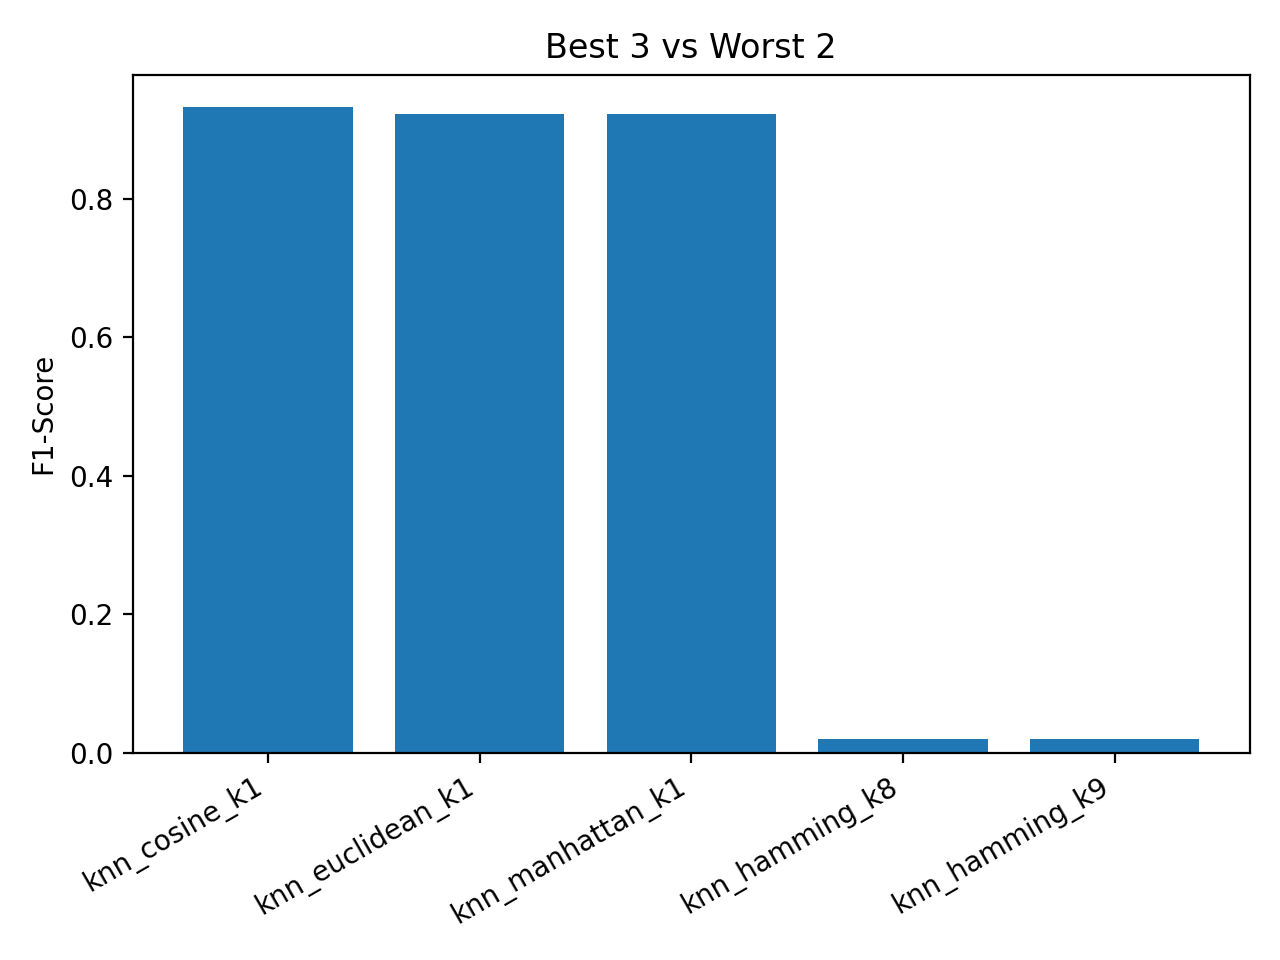
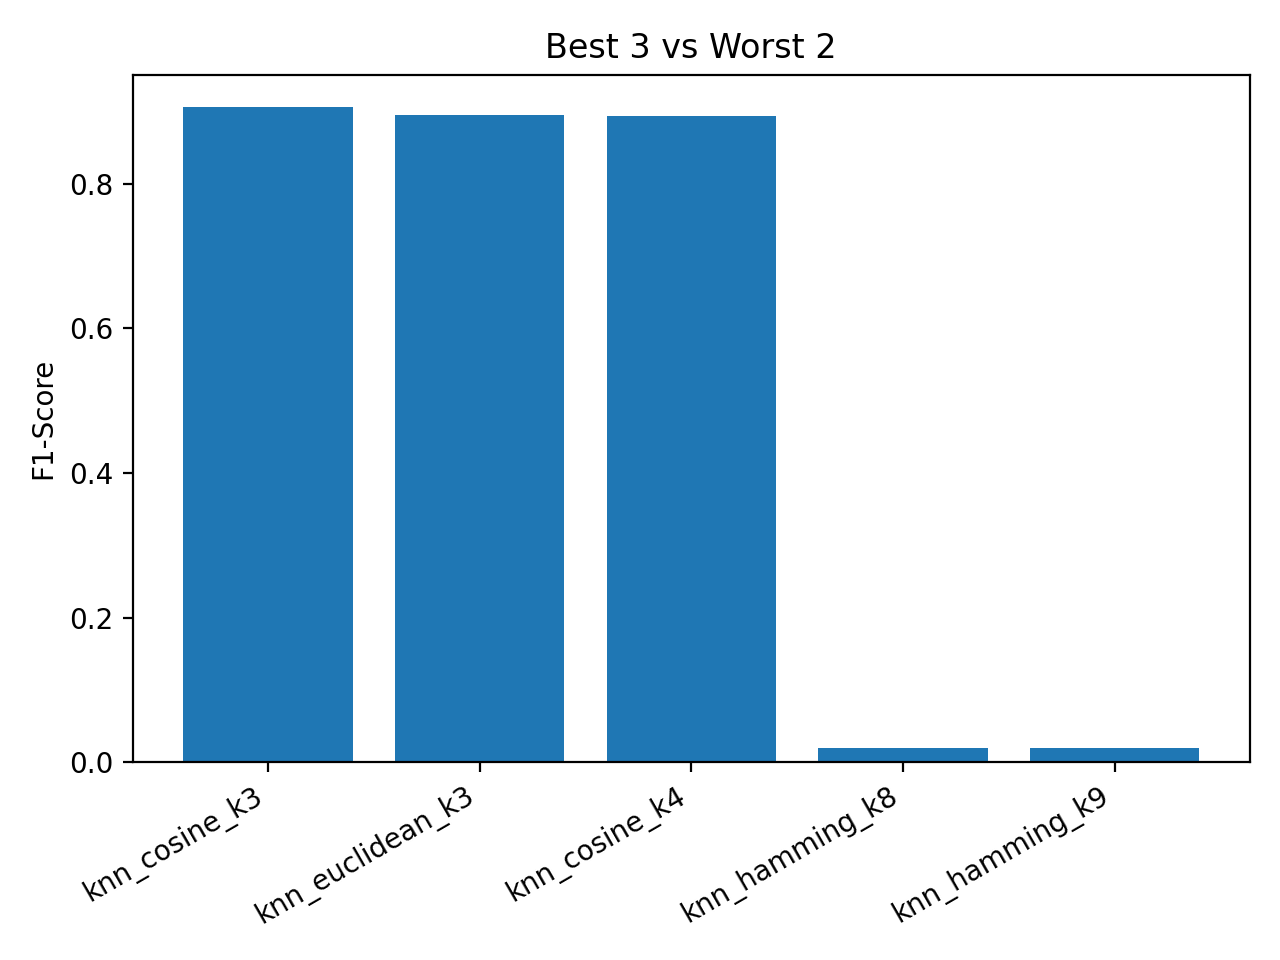
updating knn model

diff --git a/src/training/models.py b/src/training/models.py
@@ -7,7 +7,7 @@ def build_candidates(seed=42):
     models = {}
     # KNN sweeps
     for metric in ["euclidean","manhattan","chebyshev","cosine","hamming"]:
-        for k in range(1,10):
+        for k in range(3,10):
             name = f"knn_{metric}_k{k}"
             models[name] = KNeighborsClassifier(n_neighbors=k, metric=metric)
     # Tree / LR / RF

diff --git a/README.md b/README.md
@@ -189,26 +189,27 @@ After uploading an audio file, the results page displays the predicted sound cat
 
 ## 4. Results
 
-The evaluation revealed that **KNN models consistently outperformed other algorithms**, particularly when using cosine, Euclidean, and Manhattan distance metrics with `k=1`. These models achieved validation F1-scores above 0.92, demonstrating their strong ability to capture acoustic similarities between sound classes. In contrast, Random Forest and Logistic Regression produced competitive results but fell short of the top-performing KNN models, while Decision Trees and Hamming-based KNN variations performed poorly.  
+The evaluation revealed that **KNN models consistently outperformed other algorithms**, particularly when using cosine and Euclidean distance metrics with moderate `k` values. These models achieved validation F1-scores close to or above 0.90, demonstrating their strong ability to capture acoustic similarities between sound classes. In contrast, Random Forest and Logistic Regression produced competitive results but fell short of the top-performing KNN models, while Decision Trees and Hamming-based KNN variations performed poorly.  
 
-Overall, the results highlight the importance of feature scaling, PCA, and careful metric selection in classification performance. The best model, **KNN with cosine distance (k=1)**, achieved an F1-score of **0.932**, while the weakest configuration, **KNN with Hamming distance (k=9)**, scored only **0.019**. These findings emphasize the significance of choosing the right distance metric for sound classification tasks and demonstrate that simple algorithms, when properly tuned, can outperform more complex models in specific domains.  
+Overall, the results highlight the importance of feature scaling, PCA, and careful metric selection in classification performance. The best model, **KNN with cosine distance (k=3)**, achieved an F1-score of **0.906**, while the weakest configuration, **KNN with Hamming distance (k=9)**, scored only **0.019**. These findings emphasize the significance of choosing the right distance metric and neighborhood size for sound classification tasks and demonstrate that simple algorithms, when properly tuned, can outperform more complex models in specific domains.  
 
 From all tested models, here are the **Top 3** and **Weakest 2** performers:  
 
+
 ### ✅ Best Models
 
-| Model                  | Accuracy | Precision | Recall | F1-score |
-|------------------------|----------|-----------|--------|----------|
-| **KNN Cosine (k=1)**   | 0.936    | 0.932     | 0.934  | **0.932** |
-| **KNN Euclidean (k=1)**| 0.931    | 0.918     | 0.930  | **0.922** |
-| **KNN Manhattan (k=1)**| 0.930    | 0.919     | 0.928  | **0.921** |
+| Model                   | Accuracy | Precision | Recall | F1-score |
+|-------------------------|----------|-----------|--------|----------|
+| **KNN Cosine (k=3)**    | 0.911    | 0.901     | 0.913  | **0.906** |
+| **KNN Euclidean (k=3)** | 0.904    | 0.893     | 0.902  | **0.896** |
+| **KNN Cosine (k=4)**    | 0.899    | 0.892     | 0.900  | **0.894** |
 
 ### ❌ Weakest Models
 
-| Model                  | Accuracy | Precision | Recall | F1-score |
-|------------------------|----------|-----------|--------|----------|
-| **KNN Hamming (k=9)**  | 0.107    | 0.011     | 0.100  | **0.019** |
-| **KNN Cosine (k=1)** (test set) | 0.931 (test) | – | – | **0.925 (test)** |
+| Model                              | Accuracy | Precision | Recall | F1-score |
+|------------------------------------|----------|-----------|--------|----------|
+| **KNN Hamming (k=9)**              | 0.107    | 0.011     | 0.100  | **0.019** |
+| **KNN Cosine (k=3)** *(test set)*  | 0.898 (test) | – | – | **0.891 (test)** |
 
 
 ------------------------------------------------------------------------
